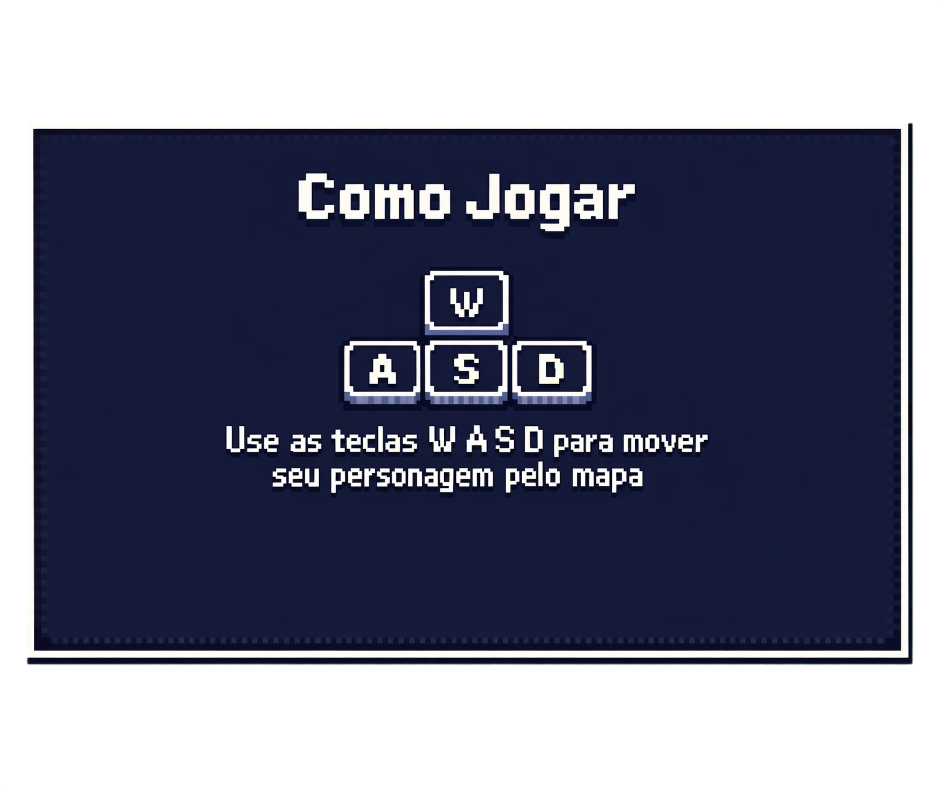
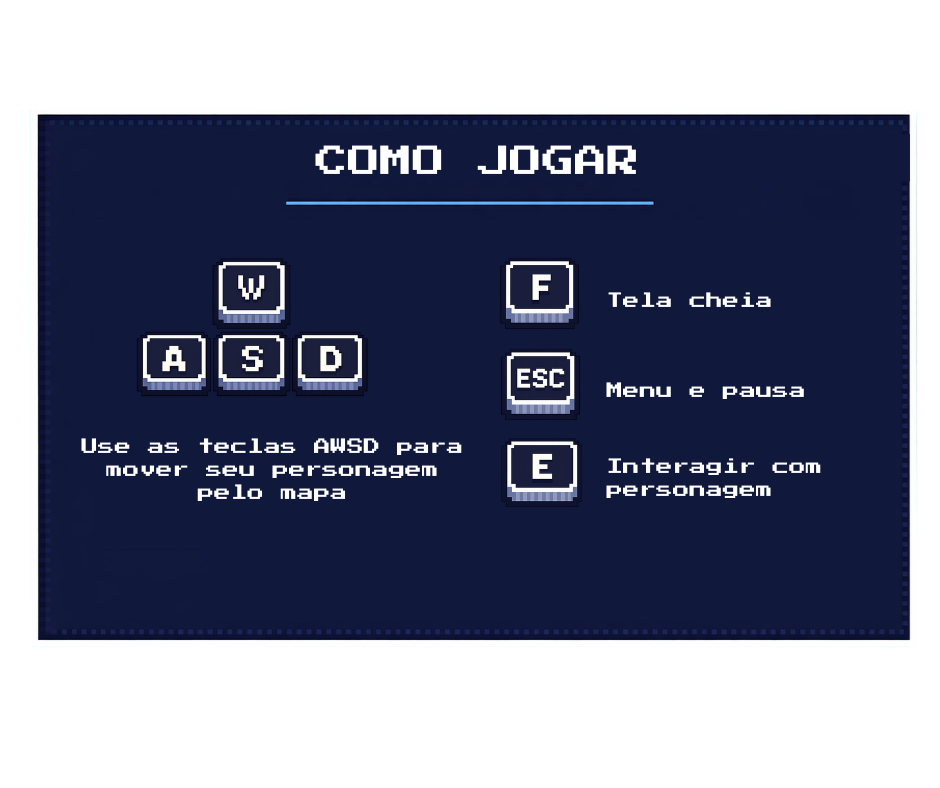
mudanca pop up tutorial

Changed region(s): [[0.0309, 0.1218, 0.9872, 0.8528], [0.6479, 0.3655, 0.833, 0.3959]]

diff --git a/public/src/scenes/SceneJogo.js b/public/src/scenes/SceneJogo.js
@@ -15,6 +15,7 @@ export default class SceneJogo extends Phaser.Scene {
     this.load.image("mapaPonteImage", "src/assets/imagens/imagensMapa/mapaPonte.png");
     this.load.image("botaoJogarTutorial", "src/assets/imagens/imagensBotoes/botaoJogarTutorial.png");
     this.load.image("configFundo", "src/assets/imagens/imagensPopUps/fundoConfig.png");
+    this.load.image("imagemTutorial", "src/assets/imagens/imagensPopUps/imagemTutorial.png");
 
     // Carrega os sprites do personagem selecionado
     const caminhoBase = `src/assets/imagens/imagensPersonagens/${this.nomePastaEscolhida}`;
@@ -87,84 +88,19 @@ export default class SceneJogo extends Phaser.Scene {
 
 //Pop-up de tutorial que aparece ao iniciar a fase
   mostrarTutorial() {
-    const cx = this.scale.width / 2;  //Centro horizontal da tela
-    const cy = this.scale.height / 2; //Centro vertical da tela
-    this.elementosTutorial = []; //Array para armazenar todos os elementos do tutorial
-
-    // Lista de controles para gerar as linhas do tutorial
-    const controles = [
-      { teclas: ["W", "A", "S", "D"], descricao: "Movimentar personagem" },
-      { teclas: ["F"],                descricao: "Tela cheia" },
-      { teclas: ["E"],                descricao: "Interagir com personagens" },
-      { teclas: ["ESC"],              descricao: "Menu de pausa" }
-    ];
-
-    const estiloDescricao = { fontSize: "20px", color: "#ffffff" }; //Estilo das descrições
-    const estiloKeycap = { fontSize: "16px", color: "#ffffff", fontStyle: "bold" }; //Estilo do texto dentro das teclas
-    const inicioY = cy - 80; //Posição Y da primeira linha
-    const espacoEntreLinhas = 55; //Espaçamento vertical entre cada linha
+    const cx = this.scale.width / 2;
+    const cy = this.scale.height / 2;
+    this.elementosTutorial = [];
 
     // Fundo escuro semi-transparente
     this.elementosTutorial.push(this.add.rectangle(
       cx, cy, this.scale.width, this.scale.height, 0x000000, 0.7
     ).setDepth(50).setScrollFactor(0));
 
-    // Painel de fundo do tutorial
-    this.elementosTutorial.push(this.add.rectangle(
-      cx, cy, 650, 450, 0x0d1b2a
-    ).setStrokeStyle(3, 0x4a90d9).setDepth(51).setScrollFactor(0));
-
-    // Borda interna decorativa
-    this.elementosTutorial.push(this.add.rectangle(
-      cx, cy, 630, 430, 0x0d1b2a, 0
-    ).setStrokeStyle(1, 0x1e3a5f).setDepth(51).setScrollFactor(0));
-
-    // Título do tutorial
-    this.elementosTutorial.push(this.add.text(
-      cx, cy - 175,
-      "COMO JOGAR",
-      { fontSize: "32px", color: "#ffffff", fontStyle: "bold" }
-    ).setOrigin(0.5).setDepth(52).setScrollFactor(0));
-
-    // Linha separadora decorativa abaixo do título
-    this.elementosTutorial.push(this.add.rectangle(
-      cx, cy - 140, 250, 2, 0x4a90d9
-    ).setDepth(52).setScrollFactor(0));
-
-    const colKeycap = cx - 270; //Posição X inicial das keycaps
-    const colDescricao = cx - 50; //Posição X das descrições
-
-    // Gera cada linha de controle dinamicamente
-    controles.forEach((ctrl, i) => {
-      const linhaY = inicioY + (i * espacoEntreLinhas); //Posição Y da linha atual
-      let teclaX = colKeycap; //Posição X inicial das teclas
-
-      // Cria uma keycap visual para cada tecla do controle
-      ctrl.teclas.forEach(tecla => {
-        const largura = tecla.length > 1 ? 50 : 34; //Teclas maiores (ESC) ficam mais largas
-
-        // Fundo da keycap (retângulo com borda)
-        this.elementosTutorial.push(this.add.rectangle(
-          teclaX + largura / 2, linhaY, largura, 34, 0x1a3a5c
-        ).setStrokeStyle(2, 0x4a90d9).setDepth(52).setScrollFactor(0));
-
-        // Texto da tecla dentro da keycap
-        this.elementosTutorial.push(this.add.text(
-          teclaX + largura / 2, linhaY,
-          tecla,
-          estiloKeycap
-        ).setOrigin(0.5).setDepth(53).setScrollFactor(0));
-
-        teclaX += largura + 6; //Avança para a próxima tecla com espaçamento
-      });
-
-      // Descrição do controle
-      this.elementosTutorial.push(this.add.text(
-        colDescricao, linhaY,
-        ctrl.descricao,
-        estiloDescricao
-      ).setOrigin(0, 0.5).setDepth(52).setScrollFactor(0));
-    });
+    // Imagem do tutorial
+    this.elementosTutorial.push(this.add.image(
+      cx, cy, "imagemTutorial"
+    ).setDepth(51).setScrollFactor(0));
 
     // Botão "Jogar!" para fechar o tutorial
     this.botaoJogarTutorial = this.add.image(
